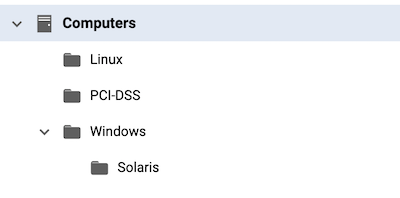
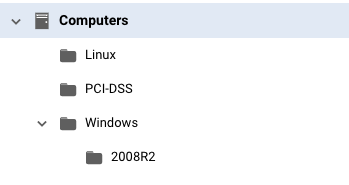
Improvement in the JSON parsing and in the documentation
Special thanks to @raphabot and @andresark.

diff --git a/README.md b/README.md
@@ -59,7 +59,7 @@ root@058310e2bd3a ./script.sh
 
  - Adding all Sub-Groups to Workload Security...
 
-{"type":"folder","name":"Solaris","description":"Legacy Machines","parentGroupID":444,"ID":447}
+{"type":"folder","name":"2008R2","description":"Legacy Machines","parentGroupID":444,"ID":447}
 
 No more groups to be added :)
 ```
@@ -77,7 +77,7 @@ root@058310e2bd3a:/home ./script.sh
 
  - Adding all Sub-Groups to Workload Security...
 
-{"message":"Group \"Solaris\" already exists."}
+{"message":"Group \"2008R2\" already exists."}
 
 No more groups to be added :)
 ```
